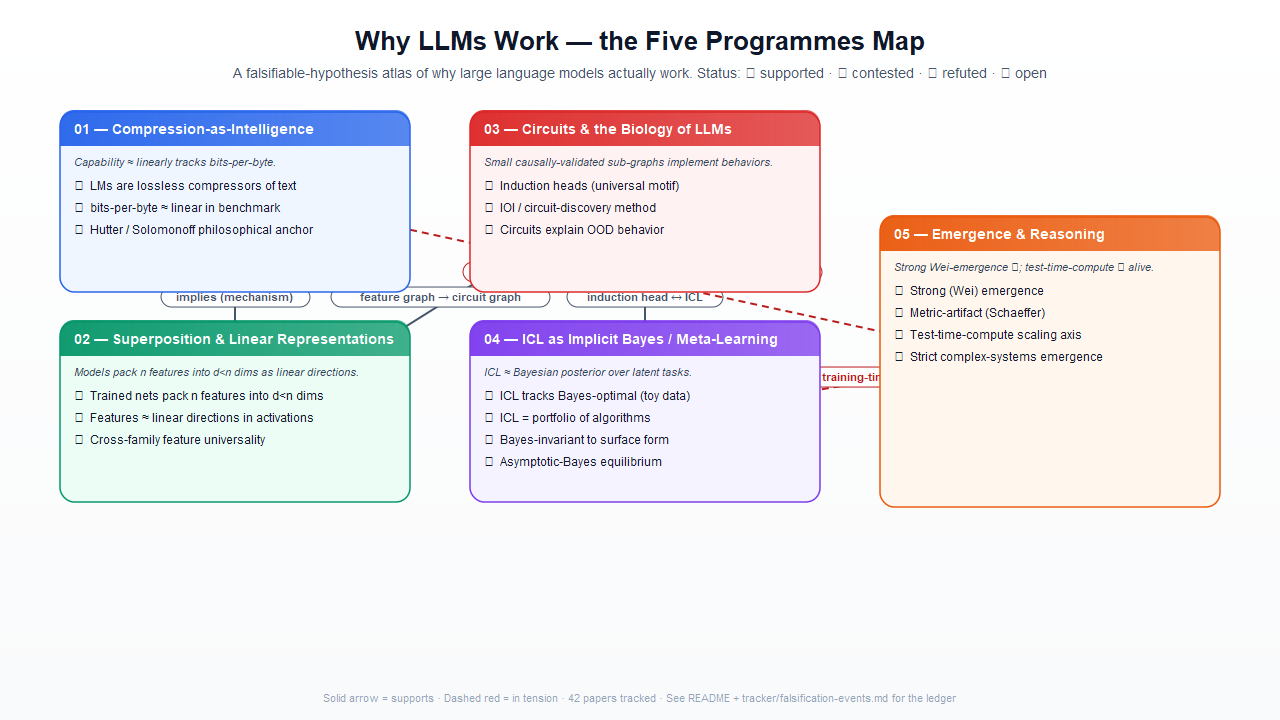
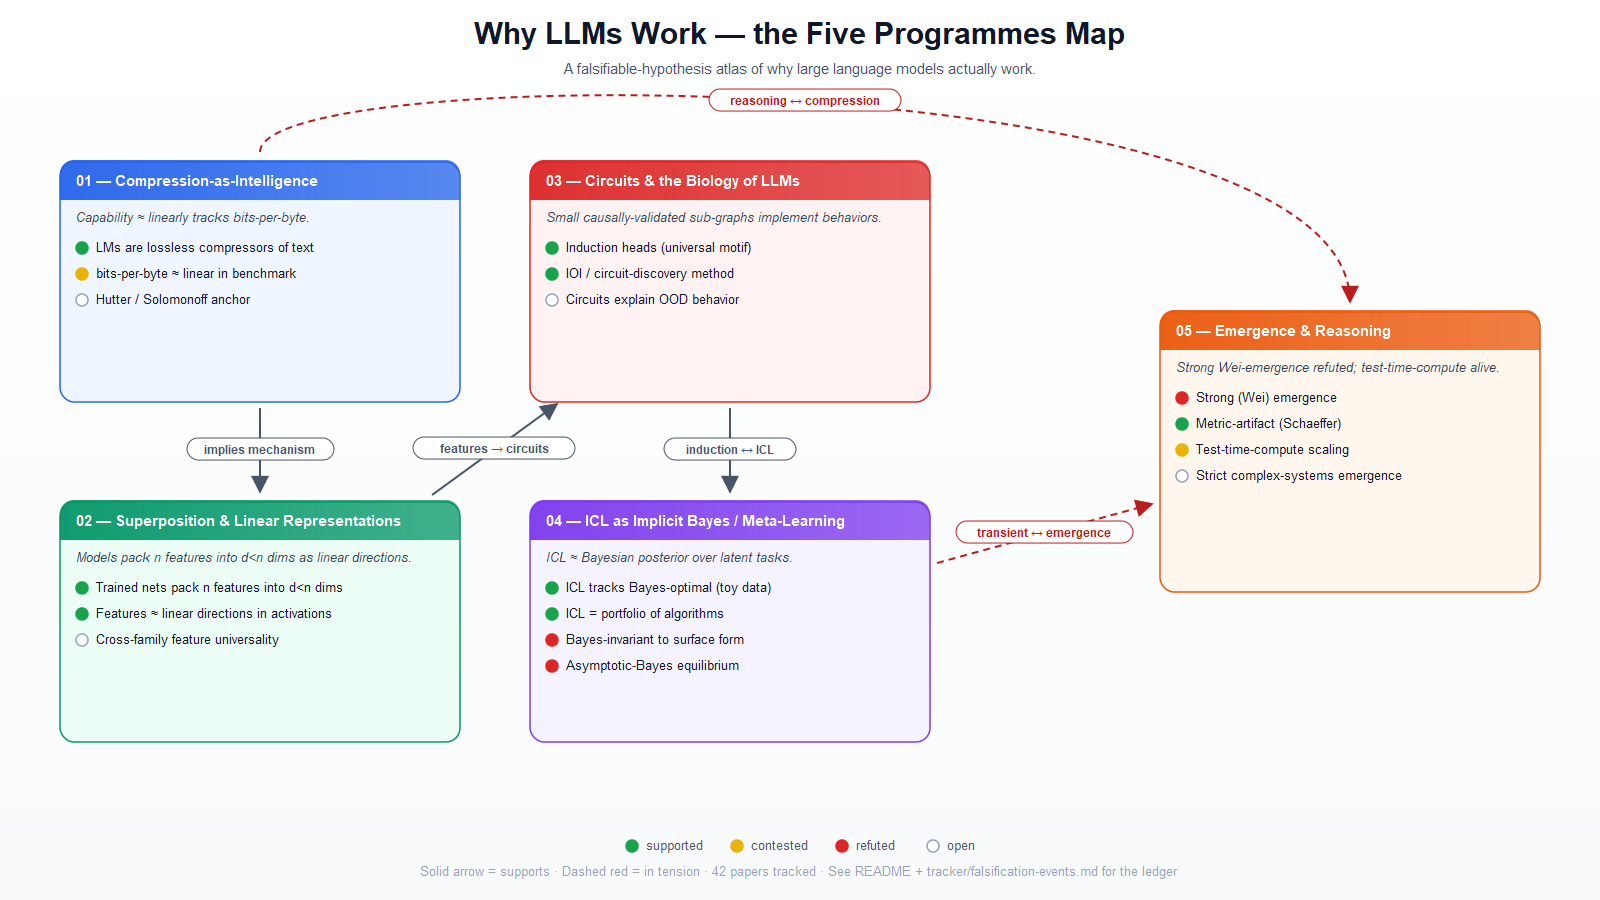
updated taxonomy

diff --git a/scripts/render_taxonomy.py b/scripts/render_taxonomy.py
@@ -1,13 +1,17 @@
 """Render the taxonomy diagram (taxonomy.svg + taxonomy.png).
 
 Visual design:
-  - 16:9 aspect (1280×720) for social-preview compatibility.
-  - Five programme clusters as color-coded rounded cards.
-  - Each card has a header strip in the programme's hue, a body with
-    claim nodes, and a small bottom-right status pip.
+  - 16:9 aspect (1600×900) for social-preview compatibility and breathing room.
+  - Five programme clusters as color-coded rounded cards in a 2×2 + 1 layout:
+      01 top-left      03 top-center
+      02 bot-left      04 bot-center      05 right (vertically centered)
   - Edges connect programmes with two visual languages:
       solid grey  -> supports / implies
       dashed red  -> in tension with
+    Edge endpoints are computed from the actual box rectangles (not heuristic
+    pixel offsets), so labels always land in the *gaps* between cards.
+  - The long 01↔05 tension edge is drawn as a cubic-bezier arc *over* card 03
+    so it never crosses a card body.
   - Subtitle, legend, and a small footer with attribution.
 
 The script does not require graphviz; it emits SVG directly. The XML-escape
@@ -33,7 +37,7 @@ def x(s: str) -> str:
     return html.escape(s, quote=True)
 
 
-W, H = 1280, 720  # 16:9
+W, H = 1600, 900  # 16:9
 
 # Programme color identity (color + lighter "tint" for the card body).
 PROGRAMMES = {
@@ -69,18 +73,19 @@ PROGRAMMES = {
         "title": "05 — Emergence & Reasoning",
         "color": "#ea580c",   # orange-600
         "tint":  "#fff7ed",   # orange-50
-        "summary": "Strong Wei-emergence 🔴; test-time-compute 🟡 alive.",
+        "summary": "Strong Wei-emergence refuted; test-time-compute alive.",
         "status": "mixed",
     },
 }
 
 # Programme card geometry: (x, y, width, height).
+# 2×2 grid on the left + a wider card on the right, all comfortably spaced.
 LAYOUT = {
-    "01": (60,  110, 350, 180),
-    "02": (60,  320, 350, 180),
-    "03": (470, 110, 350, 180),
-    "04": (470, 320, 350, 180),
-    "05": (880, 215, 340, 290),
+    "01": (60,   160, 400, 240),
+    "02": (60,   500, 400, 240),
+    "03": (530,  160, 400, 240),
+    "04": (530,  500, 400, 240),
+    "05": (1160, 310, 380, 280),
 }
 
 # Claim nodes per programme (label, status_emoji).
@@ -88,7 +93,7 @@ NODES = {
     "01": [
         ("LMs are lossless compressors of text", "🟢"),
         ("bits-per-byte ≈ linear in benchmark", "🟡"),
-        ("Hutter / Solomonoff philosophical anchor", "⚪"),
+        ("Hutter / Solomonoff anchor", "⚪"),
     ],
     "02": [
         ("Trained nets pack n features into d<n dims", "🟢"),
@@ -109,19 +114,69 @@ NODES = {
     "05": [
         ("Strong (Wei) emergence", "🔴"),
         ("Metric-artifact (Schaeffer)", "🟢"),
-        ("Test-time-compute scaling axis", "🟡"),
+        ("Test-time-compute scaling", "🟡"),
         ("Strict complex-systems emergence", "⚪"),
     ],
 }
 
-# Cross-programme edges: (src, dst, label, kind).
+# Status pip styling for the SVG circles that replace emoji glyphs.
+# (fill, stroke). cairosvg cannot render colored emoji, so we use real shapes.
+STATUS_PIP = {
+    "🟢": ("#16a34a", "#16a34a"),  # green-600
+    "🟡": ("#eab308", "#eab308"),  # yellow-500
+    "🔴": ("#dc2626", "#dc2626"),  # red-600
+    "⚪": ("#ffffff", "#94a3b8"),  # white fill, slate stroke (hollow look)
+}
+
+# Cross-programme edges: (src, dst, label, kind, route).
+#   kind:  "supports" (solid grey)  |  "tension" (dashed red)
+#   route: "straight" (line between box edges)
+#          "arc"      (cubic bezier from src-top over the top to dst-top)
 EDGES = [
-    ("01", "02", "implies (mechanism)", "supports"),
-    ("02", "03", "feature graph → circuit graph", "supports"),
-    ("03", "04", "induction head ↔ ICL", "supports"),
-    ("04", "05", "transient ICL ↔ training-time emergence", "tension"),
-    ("01", "05", "reasoning models reopen compression-vs-capability", "tension"),
+    ("01", "02", "implies mechanism",     "supports", "straight"),
+    ("02", "03", "features → circuits",   "supports", "straight"),
+    ("03", "04", "induction ↔ ICL",       "supports", "straight"),
+    ("04", "05", "transient ↔ emergence", "tension",  "straight"),
+    ("01", "05", "reasoning ↔ compression", "tension", "arc"),
 ]
+
+
+def box_center(pid: str) -> tuple[int, int]:
+    bx, by, bw, bh = LAYOUT[pid]
+    return bx + bw // 2, by + bh // 2
+
+
+def box_top(pid: str) -> tuple[int, int]:
+    bx, by, bw, _bh = LAYOUT[pid]
+    return bx + bw // 2, by
+
+
+def line_endpoints(
+    src: str, dst: str, pad: int = 8
+) -> tuple[int, int, int, int]:
+    """Return (x1,y1,x2,y2) where a straight edge between src and dst boxes
+    exits/enters the respective box rectangles, with a small `pad` so the
+    arrow head sits clear of the card border."""
+    cx1, cy1 = box_center(src)
+    cx2, cy2 = box_center(dst)
+    dx, dy = cx2 - cx1, cy2 - cy1
+    norm = (dx * dx + dy * dy) ** 0.5 or 1.0
+    ux, uy = dx / norm, dy / norm
+
+    def edge_t(pid: str) -> float:
+        _, _, bw, bh = LAYOUT[pid]
+        half_w, half_h = bw / 2, bh / 2
+        tx = half_w / abs(ux) if ux != 0 else 1e9
+        ty = half_h / abs(uy) if uy != 0 else 1e9
+        return min(tx, ty)
+
+    t1 = edge_t(src) + pad
+    t2 = edge_t(dst) + pad
+    x1 = int(cx1 + t1 * ux)
+    y1 = int(cy1 + t1 * uy)
+    x2 = int(cx2 - t2 * ux)
+    y2 = int(cy2 - t2 * uy)
+    return x1, y1, x2, y2
 
 
 def render_svg() -> str:
@@ -171,53 +226,64 @@ def render_svg() -> str:
 
     # Header: title + subtitle.
     out.append(
-        f'<text x="{W // 2}" y="50" text-anchor="middle" font-size="26" '
+        f'<text x="{W // 2}" y="44" text-anchor="middle" font-size="30" '
         f'font-weight="800" fill="#0f172a">'
         f'Why LLMs Work — the Five Programmes Map'
         f'</text>'
     )
     out.append(
-        f'<text x="{W // 2}" y="78" text-anchor="middle" font-size="14" '
+        f'<text x="{W // 2}" y="74" text-anchor="middle" font-size="15" '
         f'font-weight="400" fill="#475569">'
-        f'A falsifiable-hypothesis atlas of why large language models actually work. '
-        f'{x("Status: 🟢 supported · 🟡 contested · 🔴 refuted · ⚪ open")}'
+        f'A falsifiable-hypothesis atlas of why large language models actually work.'
         f'</text>'
     )
 
-    # Edges first so cards sit on top.
-    def box_center(pid: str) -> tuple[int, int]:
-        bx, by, bw, bh = LAYOUT[pid]
-        return bx + bw // 2, by + bh // 2
+    def draw_label(mx: int, my: int, label: str, color: str) -> None:
+        # ~7.5 px per character at 12pt; min width keeps short labels readable.
+        lw = max(70, int(len(label) * 7.5) + 20)
+        out.append(
+            f'<rect x="{mx - lw // 2}" y="{my - 12}" width="{lw}" height="22" '
+            f'rx="11" ry="11" fill="white" stroke="{color}" stroke-width="1"/>'
+        )
+        out.append(
+            f'<text x="{mx}" y="{my + 4}" text-anchor="middle" font-size="12" '
+            f'fill="{color}" font-weight="600">{x(label)}</text>'
+        )
 
-    for src, dst, label, kind in EDGES:
-        x1, y1 = box_center(src)
-        x2, y2 = box_center(dst)
-        dx, dy = x2 - x1, y2 - y1
-        norm = (dx * dx + dy * dy) ** 0.5 or 1.0
-        ux, uy = dx / norm, dy / norm
-        x1 += int(95 * ux); y1 += int(65 * uy)
-        x2 -= int(95 * ux); y2 -= int(65 * uy)
+    # Edges first so cards sit on top of any line-end leakage.
+    for src, dst, label, kind, route in EDGES:
         color = "#475569" if kind == "supports" else "#b91c1c"
         dash = "" if kind == "supports" else 'stroke-dasharray="7,5"'
         marker = (
             'url(#arrow-supports)' if kind == "supports" else 'url(#arrow-tension)'
         )
-        out.append(
-            f'<line x1="{x1}" y1="{y1}" x2="{x2}" y2="{y2}" '
-            f'stroke="{color}" stroke-width="2" {dash} marker-end="{marker}"/>'
-        )
-        mx, my = (x1 + x2) // 2, (y1 + y2) // 2
-        # White rounded background for the edge label.
-        # Approximate width: 7 px per character.
-        lw = max(60, len(label) * 7 + 16)
-        out.append(
-            f'<rect x="{mx - lw // 2}" y="{my - 18}" width="{lw}" height="20" rx="10" ry="10" '
-            f'fill="white" stroke="{color}" stroke-width="1"/>'
-        )
-        out.append(
-            f'<text x="{mx}" y="{my - 4}" text-anchor="middle" font-size="10.5" '
-            f'fill="{color}" font-weight="600">{x(label)}</text>'
-        )
+
+        if route == "arc":
+            # Cubic bezier arcing over the top: leave src from its top edge,
+            # enter dst at its top edge, control points lifted to y=cy.
+            sx, sy = box_top(src)
+            ex, ey = box_top(dst)
+            sy_out = sy - 8  # tiny gap above src card
+            ey_in = ey - 8   # tiny gap above dst card, arrow points down into it
+            cy = 60          # apex of the arc, well above all cards
+            out.append(
+                f'<path d="M {sx} {sy_out} C {sx} {cy} {ex} {cy} {ex} {ey_in}" '
+                f'fill="none" stroke="{color}" stroke-width="2" {dash} '
+                f'marker-end="{marker}"/>'
+            )
+            # Midpoint of cubic with P1.y == P2.y == cy:
+            #   y(0.5) = (sy_out + ey_in)/8 + 3*cy/4
+            mx = (sx + ex) // 2
+            my = int((sy_out + ey_in) / 8 + 0.75 * cy)
+            draw_label(mx, my, label, color)
+        else:
+            x1, y1, x2, y2 = line_endpoints(src, dst, pad=8)
+            out.append(
+                f'<line x1="{x1}" y1="{y1}" x2="{x2}" y2="{y2}" '
+                f'stroke="{color}" stroke-width="2" {dash} marker-end="{marker}"/>'
+            )
+            mx, my = (x1 + x2) // 2, (y1 + y2) // 2
+            draw_label(mx, my, label, color)
 
     # Programme cards.
     for pid, (bx, by, bw, bh) in LAYOUT.items():
@@ -228,39 +294,73 @@ def render_svg() -> str:
             f'fill="{p["tint"]}" stroke="{p["color"]}" stroke-width="1.5" '
             f'filter="url(#card-shadow)"/>'
         )
-        # Header strip (top 36 px of the card).
+        # Header strip (top 40 px of the card).
         out.append(
             f'<path d="M{bx},{by + 14} a14,14 0 0 1 14,-14 h{bw - 28} '
-            f'a14,14 0 0 1 14,14 v22 h{-bw} z" '
+            f'a14,14 0 0 1 14,14 v26 h{-bw} z" '
             f'fill="url(#hdr-{pid})"/>'
         )
         out.append(
-            f'<text x="{bx + 14}" y="{by + 24}" font-size="13.5" '
+            f'<text x="{bx + 16}" y="{by + 26}" font-size="15" '
             f'font-weight="700" fill="#ffffff">'
             f'{x(p["title"])}'
             f'</text>'
         )
         # Summary line under header.
         out.append(
-            f'<text x="{bx + 14}" y="{by + 56}" font-size="11" '
+            f'<text x="{bx + 16}" y="{by + 62}" font-size="12.5" '
             f'fill="#334155" font-style="italic">{x(p["summary"])}</text>'
         )
         # Claim nodes.
         nodes = NODES[pid]
-        line_h = 22
-        start_y = by + 80
+        line_h = 26
+        start_y = by + 92
         for i, (label, status) in enumerate(nodes):
             ny = start_y + i * line_h
+            fill, stroke = STATUS_PIP[status]
+            # Status pip: small SVG circle (renders in cairo, unlike emoji).
             out.append(
-                f'<text x="{bx + 14}" y="{ny}" font-size="11.5" fill="#0f172a">'
-                f'<tspan font-size="13">{x(status)}</tspan>'
-                f'<tspan dx="6">{x(label)}</tspan>'
+                f'<circle cx="{bx + 22}" cy="{ny - 4}" r="6" '
+                f'fill="{fill}" stroke="{stroke}" stroke-width="1.5"/>'
+            )
+            out.append(
+                f'<text x="{bx + 36}" y="{ny}" font-size="13" fill="#0f172a">'
+                f'{x(label)}'
                 f'</text>'
             )
 
-    # Footer.
+    # Footer: legend row (with real SVG circles) then attribution line.
+    legend_items = [
+        ("🟢", "supported"),
+        ("🟡", "contested"),
+        ("🔴", "refuted"),
+        ("⚪", "open"),
+    ]
+    char_w = 7
+    pip_r = 6
+    gap_after_pip = 8
+    gap_between_groups = 22
+    group_widths = [
+        2 * pip_r + gap_after_pip + len(label) * char_w
+        for _, label in legend_items
+    ]
+    legend_total = sum(group_widths) + gap_between_groups * (len(legend_items) - 1)
+    legend_y = H - 50
+    cur_x = W // 2 - legend_total // 2
+    for (status, label), gw in zip(legend_items, group_widths):
+        fill, stroke = STATUS_PIP[status]
+        out.append(
+            f'<circle cx="{cur_x + pip_r}" cy="{legend_y - 4}" r="{pip_r}" '
+            f'fill="{fill}" stroke="{stroke}" stroke-width="1.5"/>'
+        )
+        out.append(
+            f'<text x="{cur_x + 2 * pip_r + gap_after_pip}" y="{legend_y}" '
+            f'font-size="13" fill="#475569">{x(label)}</text>'
+        )
+        cur_x += gw + gap_between_groups
+
     out.append(
-        f'<text x="{W // 2}" y="{H - 18}" text-anchor="middle" font-size="11" '
+        f'<text x="{W // 2}" y="{H - 24}" text-anchor="middle" font-size="13" '
         f'fill="#94a3b8">'
         f'Solid arrow = supports · Dashed red = in tension · '
         f'42 papers tracked · See README + tracker/falsification-events.md for the ledger'